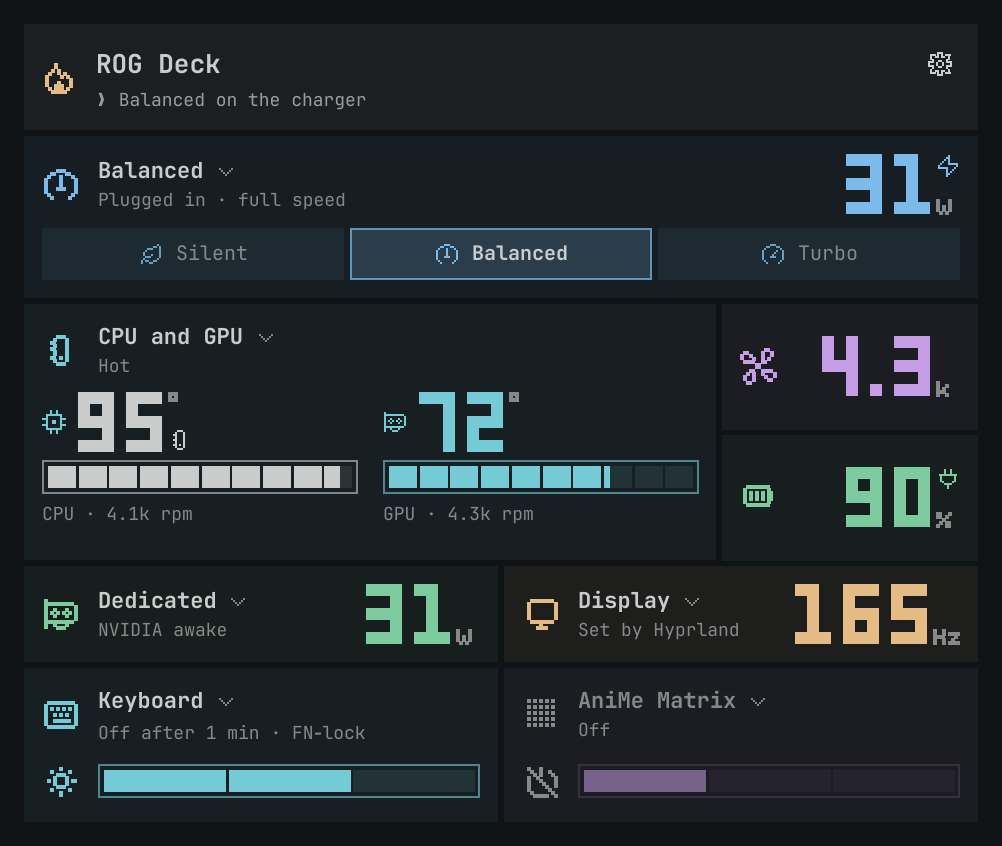
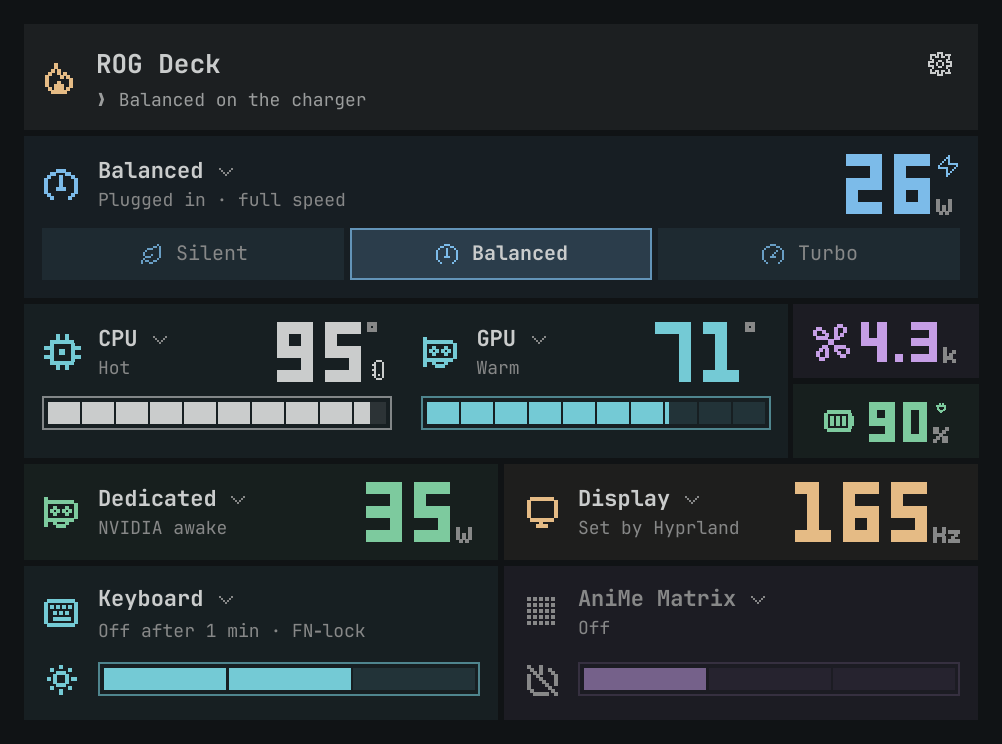
ROG Deck 1.0.2: a tighter CPU and GPU row
The CPU and GPU room and the fan and battery tiles beside it had too much
empty space. The room spent a line on its own name with nothing beside it,
each part's temperature sat at the left of its half with the rest empty,
and the part names had ended up under the meters. The tiles had their icon
at one edge and their number at the other with a gap between.

Each part is now a header like every other room's: its icon, its name over
how warm it runs (Cool, Warm, Hot, or Asleep), and its temperature at the
right edge, over a meter the width of its half. Both fans and what each
part draws are in the room's drawer. The row is shorter, and the fan and
battery tiles shrink with it: the icon and a smaller number, centred
together, still stacked into a square.

diff --git a/components/HeatRoom.qml b/components/HeatRoom.qml
@@ -3,10 +3,12 @@ import qs.Commons
 import "../Model.js" as Model
 import "Rooms.js" as Rooms
 
-// The CPU and the GPU side by side, most of a row wide, each its
-// temperature in the block face over ten cells of it (0 to 100 °C) and what
-// its fan does, under how hot the two run. The GPU reads nothing while it sleeps; it is never woken to read
-// it. Its drawer (HeatDrawer) holds the readings and their bar switches.
+// The CPU and the GPU side by side, most of a row wide. Each part is a header
+// of its own, as every room has one: its icon, its name over how warm it runs
+// (Cool, Warm, Hot, or Asleep for a GPU that is off), and its temperature in
+// the block face on the right, over ten cells of it (0 to 100 °C). The GPU
+// is never woken to read it. Its drawer (HeatDrawer) holds the fans, the
+// draw and the bar switches.
 Room {
   id: room
 
@@ -23,7 +25,6 @@ Room {
 
   tone: host.toneOf("heat")
   expanded: host.openRoom === "heat"
-  headerNatural: header.naturalHeight
   cells: {
     var out = []
     for (var i = 0; i < partRepeater.count; i++) {
@@ -34,25 +35,10 @@ Room {
   }
   onClicked: host.toggleRoom("heat")
 
-  RoomHeader {
-    id: header
-    host: room.host
-    minHeight: room.headerMin
-    icon: "thermometer"
-    tone: room.tone
-    title: "CPU and GPU"
-    status: Model.heatState(room.status ? room.status.temps : null)
-    showFigure: false
-    expanded: room.expanded
-    delay: room.delay + 120
-    story: Rooms.storyOf("heat")
-    tick: room.story
-  }
-
   Row {
     id: partRow
     width: parent.width
-    spacing: Style.space(14)
+    spacing: Style.space(16)
 
     Repeater {
       id: partRepeater
@@ -61,34 +47,28 @@ Room {
       Column {
         id: part
         required property int index
-        readonly property var modelData: room.parts[index] || ({ key: "", label: "", icon: "", temp: null, state: "", hot: false })
+        readonly property var modelData: room.parts[index] || ({ key: "", label: "", icon: "", temp: null, warmth: "", hot: false })
         readonly property alias meter: partMeter
         readonly property bool known: Rooms.hasLevel(modelData.temp)
         width: (partRow.width - partRow.spacing * (room.partKeys.length - 1)) / Math.max(1, room.partKeys.length)
-        spacing: Style.space(4)
+        spacing: Style.space(8)
 
-        // The part's own icon, the chip or the graphics card, beside its
-        // temperature; its name goes in the line under the meter, so a
-        // narrow cell never squeezes the two together.
-        Row {
-          spacing: Style.space(6)
-
-          PixelIcon {
-            anchors.verticalCenter: parent.verticalCenter
-            name: part.modelData.icon
-            size: Style.font.title
-            color: part.known ? room.tone : room.host.dim
-          }
-
-          BigFigure {
-            anchors.verticalCenter: parent.verticalCenter
-            value: part.known ? partMeter.shown : null
-            suffix: "°"
-            tone: part.modelData.hot ? room.host.lowTone : room.tone
-            foreground: room.host.fg
-            mark: part.modelData.hot ? "thermometer" : ""
-            fontFamily: room.host.fontFamily
-          }
+        RoomHeader {
+          host: room.host
+          icon: part.modelData.icon
+          tone: room.tone
+          figureTone: part.modelData.hot ? room.host.lowTone : room.tone
+          title: part.modelData.label
+          status: part.modelData.warmth
+          value: part.known ? part.modelData.temp : null
+          suffix: "°"
+          figureDimmed: !part.known
+          dimmed: !part.known
+          mark: part.modelData.hot ? "thermometer" : ""
+          expanded: room.expanded
+          delay: room.delay + 120 + part.index * 60
+          story: Rooms.storyOf("heat")
+          tick: room.story
         }
 
         Meter {
@@ -101,17 +81,6 @@ Room {
           tone: part.modelData.hot ? room.host.lowTone : room.tone
           foreground: room.host.fg
           delay: room.delay + 80 + part.index * 60
-        }
-
-        Decode {
-          host: room.host
-          width: parent.width
-          wrapMode: Text.Wrap
-          value: part.modelData.label + " · " + part.modelData.state
-          delay: room.delay + 160
-          color: room.host.dim
-          font.family: room.host.fontFamily
-          font.pixelSize: Style.font.caption
         }
       }
     }

diff --git a/components/TileHeader.qml b/components/TileHeader.qml
@@ -3,9 +3,10 @@ import qs.Commons
 import "Rooms.js" as Rooms
 
 // A small room's content, for the two tiles stacked beside the CPU and GPU:
-// its icon on the left and its figure on the right, both centred, no name.
-// The icon says what it is, the room's tooltip names it and says its state,
-// and a click opens it like any room.
+// its icon and its figure side by side, centred in the tile as one group, no
+// name. The icon says what it is, the room's tooltip names it and says its
+// state, and a click opens it like any room. The figure is a size under the
+// rooms' own, as the tile is.
 Item {
   id: head
 
@@ -28,11 +29,14 @@ Item {
   property int tick: 0
   property real k: 1
   property int spinPhase: 0
+  readonly property real figureSize: Style.font.caption - 2
   readonly property var pose: Rooms.storyPose(story, k)
   readonly property string shownIcon: frames.length > 1
     ? frames[(spinPhase + (story === "spin" ? Rooms.spinFrame(k) : 0)) % frames.length] : icon
-  // What the tile needs side by side, for the stack's width.
-  readonly property real naturalWidth: iconBox.width + Style.space(8) + widest.implicitWidth
+  readonly property real gap: Style.space(7)
+  // The group at its widest figure (100%), so the stack's width holds still
+  // as the number changes.
+  readonly property real naturalWidth: iconBox.width + gap + widest.implicitWidth
 
   width: parent ? parent.width : 0
   implicitHeight: Math.max(iconBox.height, figure.implicitHeight)
@@ -55,16 +59,6 @@ Item {
     onTriggered: head.spinPhase = (head.spinPhase + 1) % 2
   }
 
-  // Moves in whole pixels of its own grid, so it never smears.
-  PixelIcon {
-    id: iconBox
-    y: Math.round((head.height - height) / 2)
-    name: head.shownIcon
-    size: head.host.iconColumn
-    color: head.dimmed ? head.host.dim : head.tone
-    transform: Translate { x: head.pose.x * iconBox.cell; y: head.pose.y * iconBox.cell }
-  }
-
   Counter {
     id: count
     host: head.host
@@ -72,23 +66,36 @@ Item {
     delay: head.delay
   }
 
-  BigFigure {
-    id: figure
-    anchors.right: parent.right
-    y: Math.round((head.height - implicitHeight) / 2)
-    // Slides to a new reading rather than jumping to it.
-    value: count.known ? count.shown : null
-    text: head.formatted ? head.formatted.text : ""
-    suffix: head.formatted ? head.formatted.suffix : head.suffix
-    tone: head.tone
-    foreground: head.host.fg
-    mark: head.mark
-    dimmed: head.dimmed
-    fontFamily: head.host.fontFamily
+  Row {
+    anchors.centerIn: parent
+    spacing: head.gap
+
+    // Moves in whole pixels of its own grid, so it never smears.
+    PixelIcon {
+      id: iconBox
+      anchors.verticalCenter: parent.verticalCenter
+      name: head.shownIcon
+      size: Style.font.heading
+      color: head.dimmed ? head.host.dim : head.tone
+      transform: Translate { x: head.pose.x * iconBox.cell; y: head.pose.y * iconBox.cell }
+    }
+
+    BigFigure {
+      id: figure
+      anchors.verticalCenter: parent.verticalCenter
+      // Slides to a new reading rather than jumping to it.
+      value: count.known ? count.shown : null
+      text: head.formatted ? head.formatted.text : ""
+      suffix: head.formatted ? head.formatted.suffix : head.suffix
+      tone: head.tone
+      foreground: head.host.fg
+      mark: head.mark
+      dimmed: head.dimmed
+      fontFamily: head.host.fontFamily
+      fontSize: head.figureSize
+    }
   }
 
-  // The widest figure the tile shows (100%), measured so the tile never
-  // narrows or widens as its number changes.
   BigFigure {
     id: widest
     visible: false
@@ -96,5 +103,6 @@ Item {
     suffix: "%"
     mark: "zap"
     fontFamily: head.host.fontFamily
+    fontSize: head.figureSize
   }
 }

diff --git a/Model.js b/Model.js
@@ -574,13 +574,18 @@ function fanParts(status) {
   var f = status && status.fans ? status.fans : {}
   var parts = []
   function fanLine(value) { return value === null || value === undefined ? "no fan reading" : value === 0 ? "fan off" : rpm(value) + " rpm" }
+  // How warm, in a word, for the line under the part's name.
+  function warmth(temp, asleep) {
+    if (temp === null || temp === undefined) return asleep ? "Asleep" : "No reading"
+    return ["Cool", "Warm", "Hot"][heat(temp)]
+  }
   if (t.cpu !== undefined || f.cpu !== undefined)
     parts.push({ key: "cpu", label: "CPU", icon: "cpu", temp: t.cpu === undefined ? null : t.cpu, rpm: f.cpu === undefined ? null : f.cpu,
-                 state: fanLine(f.cpu), hot: heat(t.cpu) === 2 })
+                 state: fanLine(f.cpu), warmth: warmth(t.cpu, false), hot: heat(t.cpu) === 2 })
   if (t.gpu !== undefined || f.gpu !== undefined) {
     var asleep = (t.gpu === null || t.gpu === undefined) && status && status.dgpu !== "active"
     parts.push({ key: "gpu", label: "GPU", icon: "gpu", temp: t.gpu === undefined ? null : t.gpu, rpm: f.gpu === undefined ? null : f.gpu,
-                 state: (asleep ? "asleep · " : "") + fanLine(f.gpu), hot: heat(t.gpu) === 2 })
+                 state: (asleep ? "asleep · " : "") + fanLine(f.gpu), warmth: warmth(t.gpu, asleep), hot: heat(t.gpu) === 2 })
   }
   return parts
 }

diff --git a/tests/model.test.js b/tests/model.test.js
@@ -223,6 +223,8 @@ assert.deepStrictEqual([5, 15, 40, 60, 100, null].map(Model.batteryPixel),
 // Fans: the GPU reads nothing while it sleeps, and says so.
 const fanned = Model.fanParts({ temps: { cpu: 88, gpu: null }, fans: { cpu: 3400, gpu: 0 }, dgpu: "suspended" })
 assert.deepStrictEqual(fanned.map(p => [p.key, p.state, p.hot]), [["cpu", "3.4k rpm", true], ["gpu", "asleep · fan off", false]])
+assert.deepStrictEqual(fanned.map(p => p.warmth), ["Hot", "Asleep"])
+assert.deepStrictEqual(Model.fanParts({ temps: { cpu: 64, gpu: 74 }, fans: { cpu: 2000, gpu: 2000 }, dgpu: "active" }).map(p => p.warmth), ["Cool", "Warm"])
 assert.strictEqual(Model.fansState(true, true), "Custom curve")
 assert.strictEqual(Model.heatState({ cpu: 61, gpu: null }), "Cool")
 assert.strictEqual(Model.heatState({ cpu: 66, gpu: 74 }), "Warm", "the hotter of the two")

diff --git a/components/RoomHeader.qml b/components/RoomHeader.qml
@@ -16,6 +16,8 @@ Item {
   // While the panel is open, flip a frame this often (ms); 0 holds still.
   property int spinEvery: 0
   property color tone: host.fg
+  // The figure's colour, where it differs from the icon's (hot, low).
+  property color figureTone: tone
   property string title: ""
   property string status: ""
   property bool showFigure: true
@@ -153,7 +155,7 @@ Item {
     // Slides to a new reading rather than jumping to it.
     value: count.known ? count.shown : null
     suffix: head.suffix
-    tone: head.tone
+    tone: head.figureTone
     foreground: head.host.fg
     mark: head.mark
     dimmed: head.figureDimmed

diff --git a/components/BatteryRoom.qml b/components/BatteryRoom.qml
@@ -17,6 +17,8 @@ Room {
   readonly property var info: Model.batteryRoom(battery, !!status && status.ac, !!service && service.saverActive)
   readonly property bool low: info.mark === "battery-low"
   readonly property real naturalWidth: tile.naturalWidth + pad * 2
+  // A tile is a size under a room: tighter round its small figure.
+  pad: Style.space(7)
 
   tone: host.toneOf("battery")
   expanded: host.openRoom === "battery"

diff --git a/components/FansRoom.qml b/components/FansRoom.qml
@@ -19,6 +19,8 @@ Room {
   readonly property bool custom: curve && service ? !!service.pick("fans." + host.activeProfile, curve.custom) : false
   readonly property var fastest: Model.maxFan(status)
   readonly property real naturalWidth: tile.naturalWidth + pad * 2
+  // A tile is a size under a room: tighter round its small figure.
+  pad: Style.space(7)
 
   tone: host.toneOf("fans")
   expanded: host.openRoom === "fans"

diff --git a/README.md b/README.md
@@ -4,7 +4,7 @@
   <p>An Omarchy bar widget and control panel for <b>ASUS ROG</b> laptops, built on <a href="https://asus-linux.org/">asusctl/asusd</a>:<br/>
   power modes, temperatures and fans, keyboard lighting with auto-off, AniMe Matrix, FN-lock, battery limit and Battery saver, a CPU power limit for Silent, full speed when plugged in, display and GPU mode.</p>
   <p>
-    <img alt="Version" src="https://img.shields.io/badge/v1.0.1-111111?label=version" />
+    <img alt="Version" src="https://img.shields.io/badge/v1.0.2-111111?label=version" />
     <img alt="Omarchy 4" src="https://img.shields.io/badge/Omarchy-4-ff8f6b" />
     <img alt="asusd 6" src="https://img.shields.io/badge/asusd-6-ff8f6b" />
     <a href="https://github.com/T3lluz/omarchy-rog-deck/actions/workflows/ci.yml"><img alt="CI" src="https://github.com/T3lluz/omarchy-rog-deck/actions/workflows/ci.yml/badge.svg" /></a>
@@ -19,8 +19,8 @@
 ROG Deck is one panel of rooms, the look Batteries and Sonus share: each part of the laptop sits in a tile tinted in its own colour from your Omarchy theme, numbers are set big in a block face, and every icon is the same sharp pixel art. Small rooms share a row. Rooms appear only for hardware your laptop has, and a missing one leaves its neighbour the space. A click opens a room to its details; the gear holds the settings.
 
 - **Power** (blue): the mode's icon, its name, the package power as a big figure and the three modes as cells, one click each. Open it for what the running mode adds: in Silent a CPU power limit like G-Helper's, 15 to 35 W on a meter you drag (the boosts rise to the firmware's minimum, so 15 W holds 15 W sustained and boosts to 25 / 35 W); in Balanced, **Full speed when plugged in**, which gives the CPU its performance energy preference on the charger so it clocks up at once instead of ramping. The firmware only honours limits while the mode runs a custom fan curve, so the limit switches Silent's on (asusd's copy of the firmware curve, so the fans behave the same) and switching the limit off puts it back. The open room also says which mode Omarchy keeps for the charger and for battery.
-- **CPU and GPU** (cyan, most of a row): both temperatures in the block face, each over ten cells, with each part's fan speed under it and how hot the two run (Cool, Warm from 70 °C, Hot from 85 °C, with a mark so it never rests on colour alone). The GPU is read only while it is awake, so checking never wakes it.
-- **Fans** (magenta, a small tile beside the CPU and GPU): the faster fan's speed (4.3k), with the fan icon turning while the fans spin, faster for faster fans, and still when they stop. Hover it for the curve the running mode uses. Open it for that mode's custom curve, presets (Silent, Stock, Cool, Max, Reset) and the way into the curve editor: eight points per fan per mode, drag a bar or type a point's exact °C and %, with a marker at the live temperature. Curves go into asusd's own per-mode store, so the right one is on the fans whenever the mode changes.
+- **CPU and GPU** (cyan, most of a row): each part's temperature in the block face over ten cells, its name over how warm it runs (Cool, Warm from 70 °C, Hot from 85 °C with a mark, so it never rests on colour alone, or Asleep). Open it for both fans and what each part draws. The GPU is read only while it is awake, so checking never wakes it.
+- **Fans** (magenta, a small tile beside the CPU and GPU, stacked over the battery): the faster fan's speed (4.3k), with the fan icon turning while the fans spin, faster for faster fans, and still when they stop. Hover it for the curve the running mode uses. Open it for that mode's custom curve, presets (Silent, Stock, Cool, Max, Reset) and the way into the curve editor: eight points per fan per mode, drag a bar or type a point's exact °C and %, with a marker at the live temperature. Curves go into asusd's own per-mode store, so the right one is on the fans whenever the mode changes.
 - **Battery** (green, a small tile under the fans, since [Batteries](https://github.com/T3lluz/omarchy-batteries) has the full story): the level, a bolt while it charges and a plug while it holds. Hover it for what the charger is doing; open it for the power flowing in or out, to drag where charging stops (20 to 100%), charge to full once, and turn on Battery saver: on battery, 60 Hz, panel overdrive off, screen power saving and Wi-Fi power save, all put back when the charger returns.
 - **Display** (yellow): the refresh rate. Open it to pick Auto (the top rate on the charger, 60 Hz on battery) or a fixed rate, panel overdrive, and screen power saving (amdgpu's panel power savings at level 3 on battery; power-profiles-daemon's own version waits for 50% battery, so Battery saver switches it off and sets the level itself).
 - **Graphics** (green): the GPU mode and whether the NVIDIA GPU is awake, asleep or off, with its draw while awake. Open it to switch between Integrated (NVIDIA off), Hybrid and Dedicated (MUX). A switch only takes hold on restart, so it asks first.

diff --git a/AGENTS.md b/AGENTS.md
@@ -6,7 +6,7 @@ How ROG Deck is put together, for anyone (or any agent) changing it. The user-fa
 
 - `Service.qml`: always loaded. Owns the status poller, the action queue to `bin/rog-deck`, `~/.config/rog-deck/settings.json`, the background jobs (keyboard auto-off, FN-lock after login, Auto refresh rate, theme re-apply) and the IPC target.
 - `Panel.qml`: the bar entry, its hover card and the panel, once per monitor, drawing the service's state. Bar picks come from `WidgetSettings.qml`. It holds what the rooms read (`host` in every room file): the sizes (`roomPad`, `roomGap`, `iconColumn`, `textInset`, `panelWidth`), `toneOf(room)`, `lowTone`, the one clock (`entry`, `clock`, `wake`), `openRoom`/`toggleRoom`, `view`/`setView`, and the prompt (`heroLine`).
-- `components/RoomsPage.qml`: the main page. The title in a neutral room (`HeroBlock.qml`), the banners, `PowerRoom.qml` the whole width, then `HeatRoom` (the CPU and GPU) across most of a row with `FansRoom` and `BatteryRoom` stacked beside it as two tiles that make a square, then two rooms to a row: `GraphicsRoom`/`DisplayRoom`, `KeyboardRoom`/`AnimeRoom`. A room the laptop lacks leaves its neighbour the space. A row's open room drawer is `PairDrawer.qml`, a room the width of the row in the open room's tone, holding that room's `*Drawer.qml`; the power room's drawer is inside it (`Drawer.qml`). A tile (`TileHeader.qml`) is its icon and its figure, no name: the room's `tip` names it and says its state on hover. The stack is as wide as the row is tall, or wider where a tile's widest figure (100%) needs it. Two half rooms in a row share a header height (`headerNatural`, `headerMin`), so their faders line up. `SettingsPage.qml` (the gear) and `FansPage.qml` (the curve editor, `FanCurves.qml` and `FanCurve.qml`) are the other two pages.
+- `components/RoomsPage.qml`: the main page. The title in a neutral room (`HeroBlock.qml`), the banners, `PowerRoom.qml` the whole width, then `HeatRoom` (the CPU and GPU) across most of a row with `FansRoom` and `BatteryRoom` stacked beside it as two tiles that make a square, then two rooms to a row: `GraphicsRoom`/`DisplayRoom`, `KeyboardRoom`/`AnimeRoom`. A room the laptop lacks leaves its neighbour the space. A row's open room drawer is `PairDrawer.qml`, a room the width of the row in the open room's tone, holding that room's `*Drawer.qml`; the power room's drawer is inside it (`Drawer.qml`). `HeatRoom` has no header of its own: each part is a `RoomHeader` (icon, name, warmth, temperature on the right) over a full-width meter, so neither half has empty space beside its figure. A tile (`TileHeader.qml`) is its icon and its figure, a size under a room's (`font.caption` − 2, padding 7), centred together as one group, no name: the room's `tip` names it and says its state on hover. The two tiles are as tall as the CPU and GPU room, and the stack as wide as that, or wider where a tile's widest figure (100%) needs it. Two half rooms in a row share a header height (`headerNatural`, `headerMin`), so their faders line up. `SettingsPage.qml` (the gear) and `FansPage.qml` (the curve editor, `FanCurves.qml` and `FanCurve.qml`) are the other two pages.
 - The Rooms pieces, the same as Sonus's: `Room.qml` (tint, rise, ripple, click), `RoomHeader.qml` (pixel icon, name and chevron, a decoding state line, `BigFigure.qml`), `Meter.qml` (cells; with `interactive` it is a fader that commits on release), `Decode.qml`, `Drawer.qml`, `HeroBlock.qml`, `PixelIcon.qml`, `PixelText.qml`, `PixelButton.qml`, `HoverCard.qml` and `HoverRow.qml`. ROG Deck's own: `ChoiceRow.qml` (a pick of one as small cells: modes, GPU modes, rates, timeouts, presets), `LightFader.qml` (a light's on and off button in the icon column, then a cell per level, as Sonus lays out a fader), `LevelPick.qml` (a labelled fader for a limit), `Facts.qml` (readings two to a line), `RoomPicks.qml` (a room's own bar switches).
 - `components/Rooms.js`: the look's pure logic (tones, block face, pixel type, meter cells, faders, stories, the fan's spin, decode, the prompt's reveal, the glyph map), tested by `tests/rooms.test.js`.
 - `components/Pixels.js`: every icon, pixel art from Pixelarticons (MIT), built by `scripts/fetch-pixel-icons.py` (source SVGs in `pixels/`). The script also draws what the set lacks on the same grid (the fan's two frames, the AniMe Matrix) the dials for Balanced and Turbo (Pixelarticons' speed icons are half circles, half as tall as the bar's other icons), and a CPU (Pixelarticons' own reads as a sun at twelve pixels). Add a name to its `ICONS` and run it; `--show` prints the grids.
